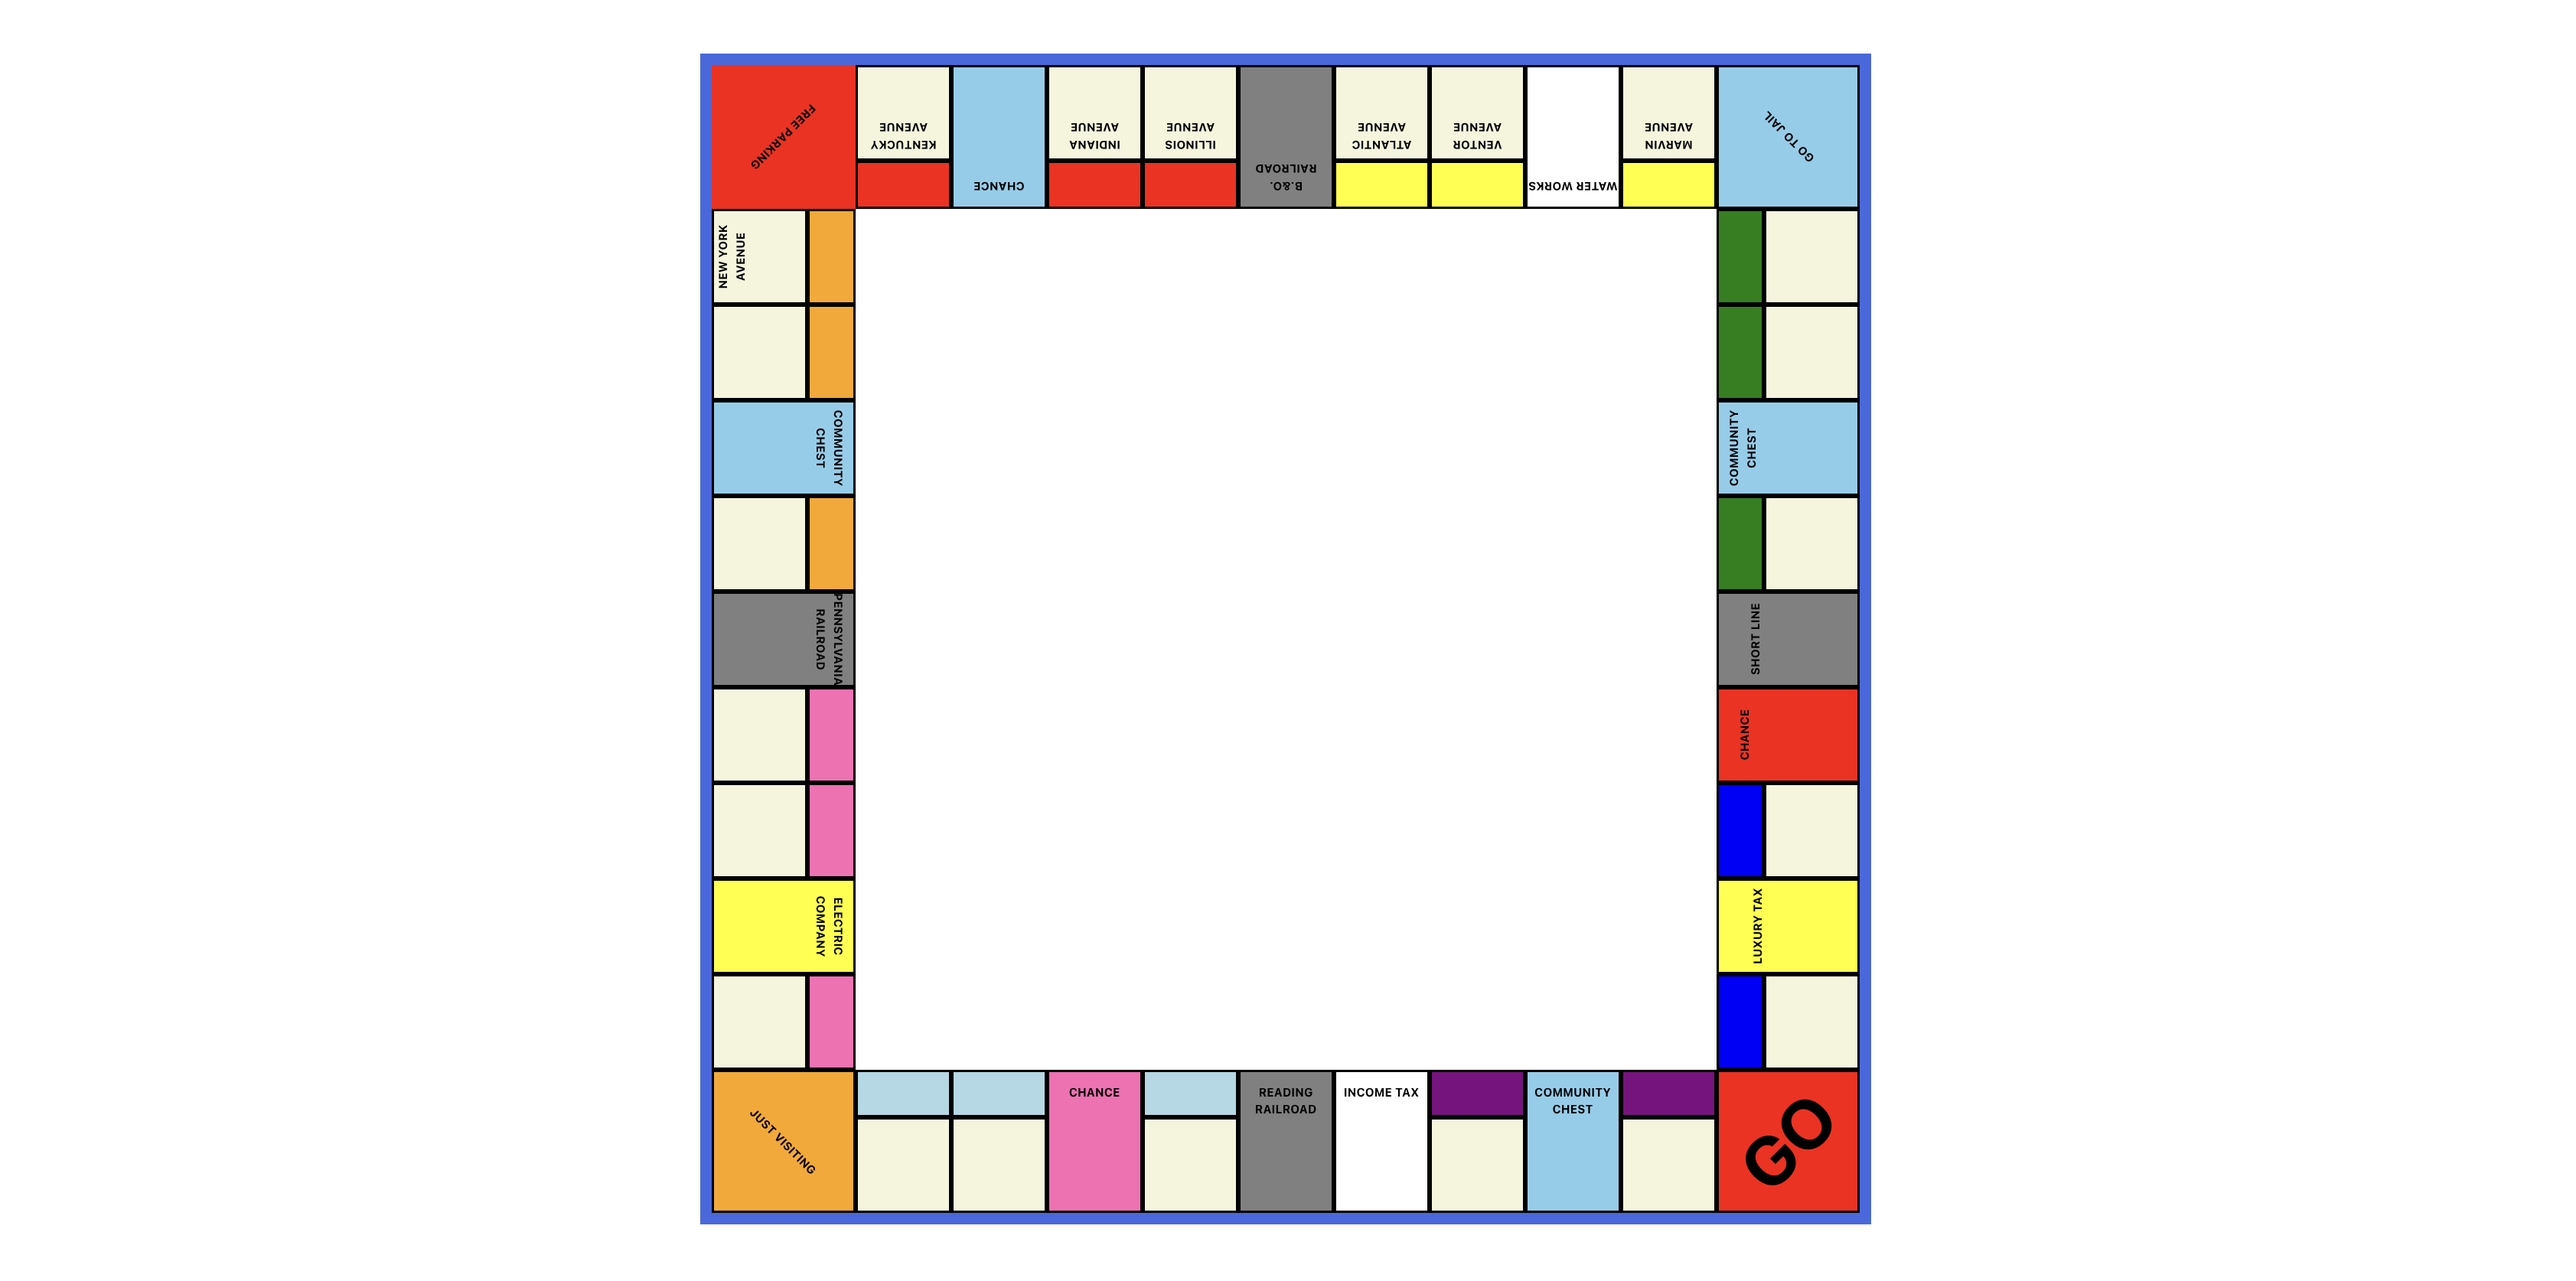
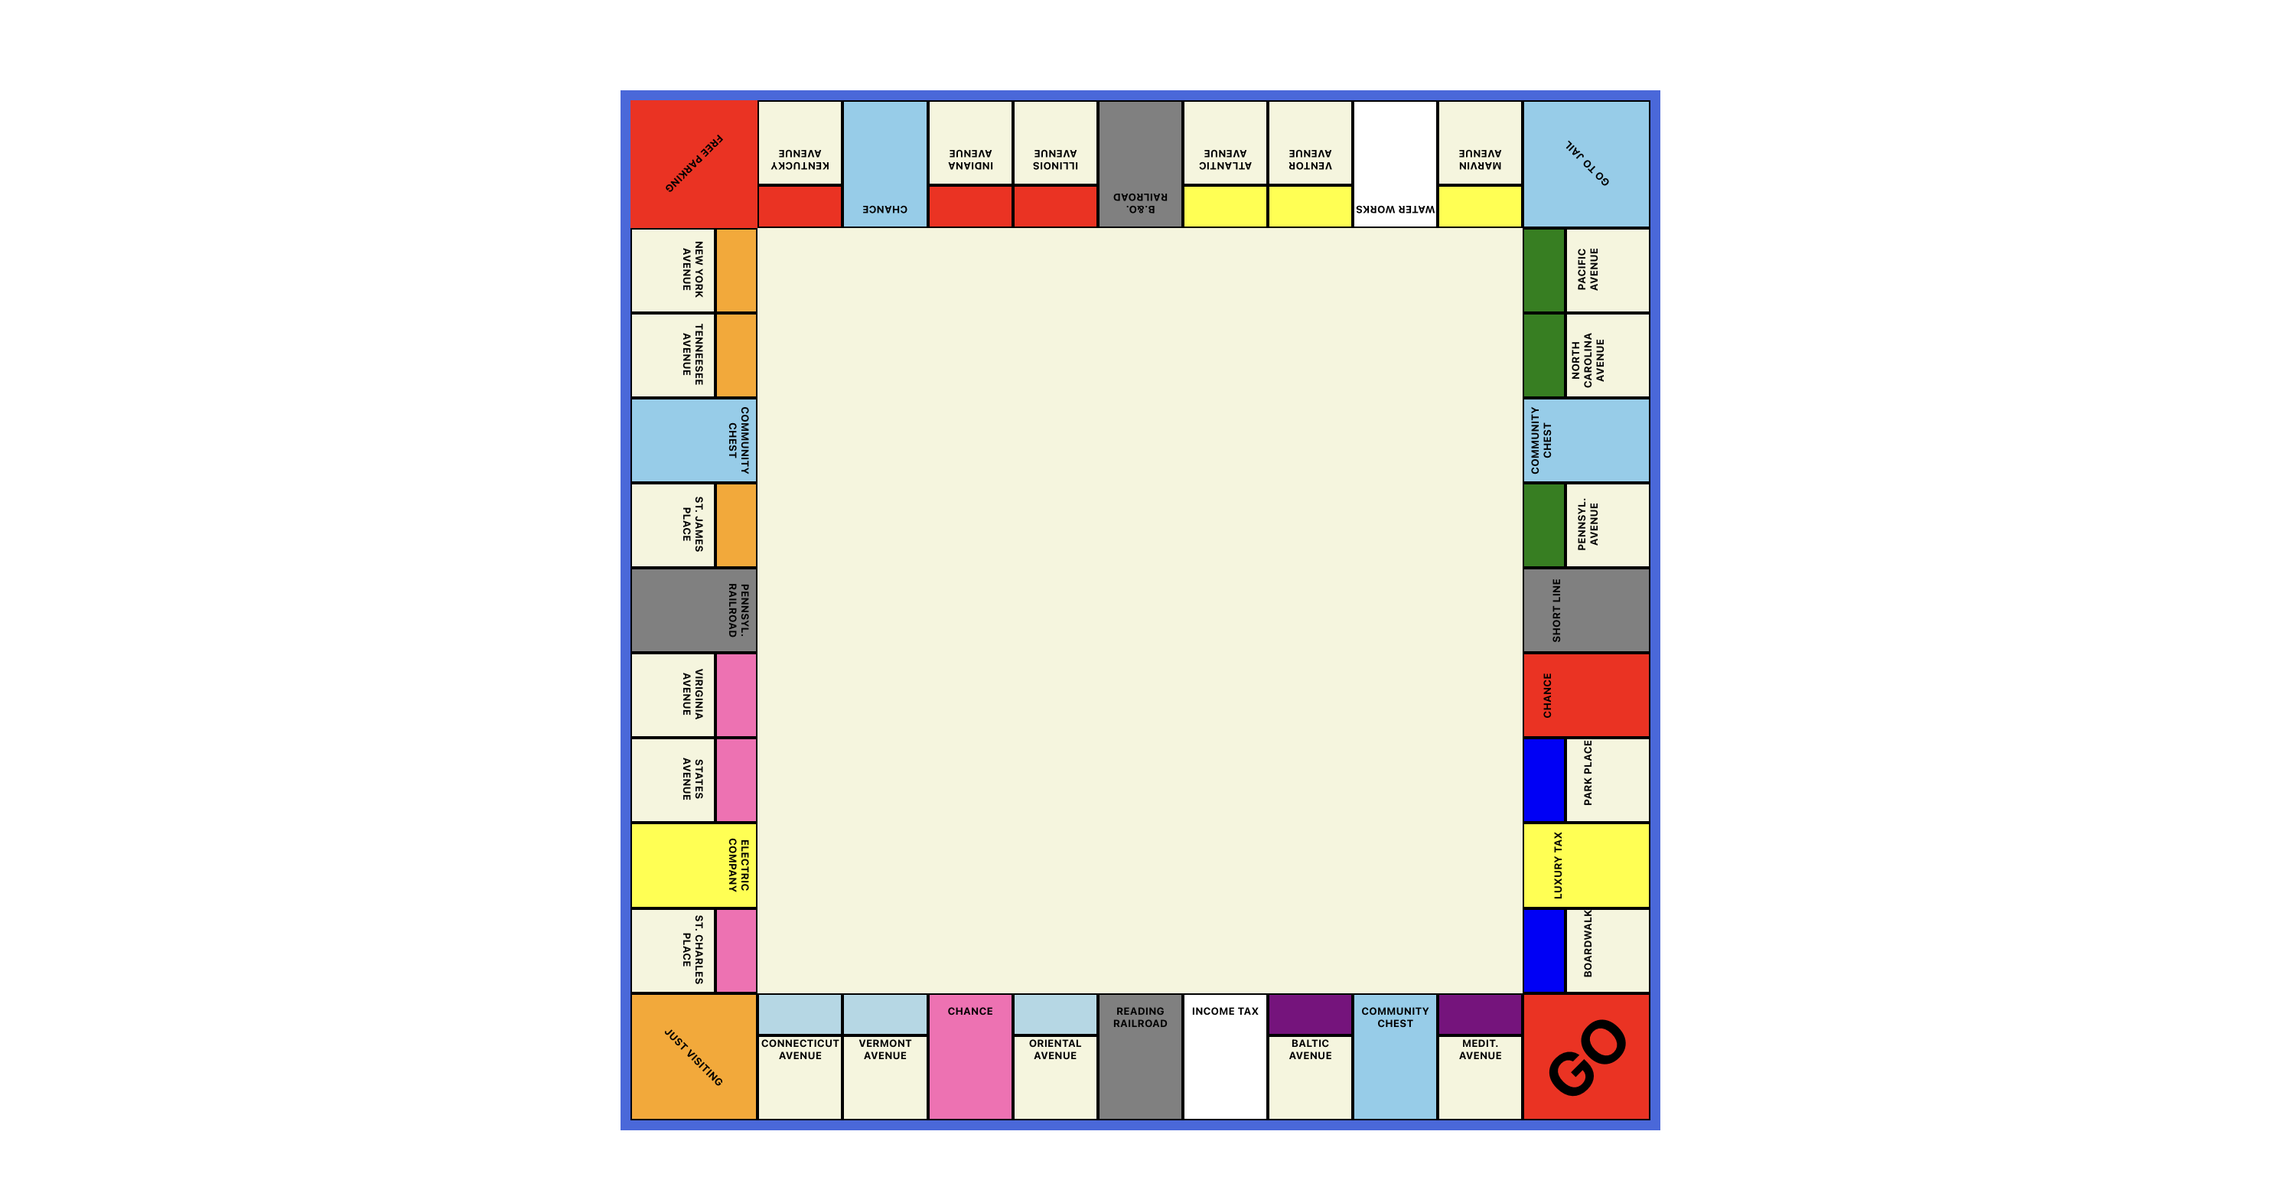
Edited Monopoly

diff --git a/src/pages/Monopoly.jsx b/src/pages/Monopoly.jsx
@@ -76,15 +76,15 @@ function Monopoly() {
     </div>
   </div>
   <div className="property-header property-orange"></div>
-  <div></div>
-  <div></div>
-  <div></div>
-  <div></div>
-  <div></div>
-  <div></div>
-  <div></div>
-  <div></div>
-  <div></div>
+  <div className="board-center"></div>
+  <div className="board-center"></div>
+  <div className="board-center"></div>
+  <div className="board-center"></div>
+  <div className="board-center"></div>
+  <div className="board-center"></div>
+  <div className="board-center"></div>
+  <div className="board-center"></div>
+  <div className="board-center"></div>
   <div className="property-header property-green"></div>
   <div className="property-body">
     <div className="rotate-right">
@@ -101,15 +101,15 @@ function Monopoly() {
     </div>
   </div>
   <div className="property-header property-orange"></div>
-  <div></div>
-  <div></div>
-  <div></div>
-  <div></div>
-  <div></div>
-  <div></div>
-  <div></div>
-  <div></div>
-  <div></div>
+  <div className="board-center"></div>
+  <div className="board-center"></div>
+  <div className="board-center"></div>
+  <div className="board-center"></div>
+  <div className="board-center"></div>
+  <div className="board-center"></div>
+  <div className="board-center"></div>
+  <div className="board-center"></div>
+  <div className="board-center"></div>
   <div className="property-header property-green"></div>
   <div className="property-body">
     <div className="rotate-right">
@@ -122,15 +122,15 @@ function Monopoly() {
         Community Chest
       </div>
   </div>
-  <div></div>
-  <div></div>
-  <div></div>
-  <div></div>
-  <div></div>
-  <div></div>
-  <div></div>
-  <div></div>
-  <div></div>
+  <div className="board-center"></div>
+  <div className="board-center"></div>
+  <div className="board-center"></div>
+  <div className="board-center"></div>
+  <div className="board-center"></div>
+  <div className="board-center"></div>
+  <div className="board-center"></div>
+  <div className="board-center"></div>
+  <div className="board-center"></div>
   <div className="property-cc-right">
     <div className="rotate-right-full">
       Community Chest
@@ -142,15 +142,15 @@ function Monopoly() {
     </div>
   </div>
   <div className="property-header property-orange"></div>
-  <div></div>
-  <div></div>
-  <div></div>
-  <div></div>
-  <div></div>
-  <div></div>
-  <div></div>
-  <div></div>
-  <div></div>
+  <div className="board-center"></div>
+  <div className="board-center"></div>
+  <div className="board-center"></div>
+  <div className="board-center"></div>
+  <div className="board-center"></div>
+  <div className="board-center"></div>
+  <div className="board-center"></div>
+  <div className="board-center"></div>
+  <div className="board-center"></div>
   <div className="property-header property-green"></div>
   <div className="property-body">
     <div className="rotate-right">
@@ -163,15 +163,15 @@ function Monopoly() {
     Pennsyl. Railroad
     </div>
   </div>
-  <div></div>
-  <div></div>
-  <div></div>
-  <div></div>
-  <div></div>
-  <div></div>
-  <div></div>
-  <div></div>
-  <div></div>
+  <div className="board-center"></div>
+  <div className="board-center"></div>
+  <div className="board-center"></div>
+  <div className="board-center"></div>
+  <div className="board-center"></div>
+  <div className="board-center"></div>
+  <div className="board-center"></div>
+  <div className="board-center"></div>
+  <div className="board-center"></div>
   <div className="property-short-line">
     <div className="rotate-right-full">
       Short Line
@@ -184,15 +184,15 @@ function Monopoly() {
     </div>
   </div>
   <div className="property-header property-hotpink"></div>
-  <div></div>
-  <div></div>
-  <div></div>
-  <div></div>
-  <div></div>
-  <div></div>
-  <div></div>
-  <div></div>
-  <div></div>
+  <div className="board-center"></div>
+  <div className="board-center"></div>
+  <div className="board-center"></div>
+  <div className="board-center"></div>
+  <div className="board-center"></div>
+  <div className="board-center"></div>
+  <div className="board-center"></div>
+  <div className="board-center"></div>
+  <div className="board-center"></div>
   <div className="property-chance-right">
   <div className="rotate-right-full">
       Chance
@@ -205,15 +205,15 @@ function Monopoly() {
     </div>
   </div>
   <div className="property-header property-hotpink"></div>
-  <div></div>
-  <div></div>
-  <div></div>
-  <div></div>
-  <div></div>
-  <div></div>
-  <div></div>
-  <div></div>
-  <div></div>
+  <div className="board-center"></div>
+  <div className="board-center"></div>
+  <div className="board-center"></div>
+  <div className="board-center"></div>
+  <div className="board-center"></div>
+  <div className="board-center"></div>
+  <div className="board-center"></div>
+  <div className="board-center"></div>
+  <div className="board-center"></div>
   <div className="property-header property-blue"></div>
   <div className="property-body">
     <div className="rotate-right">
@@ -226,15 +226,15 @@ function Monopoly() {
       Electric Company
     </div>
   </div>
-  <div></div>
-  <div></div>
-  <div></div>
-  <div></div>
-  <div></div>
-  <div></div>
-  <div></div>
-  <div></div>
-  <div></div>
+  <div className="board-center"></div>
+  <div className="board-center"></div>
+  <div className="board-center"></div>
+  <div className="board-center"></div>
+  <div className="board-center"></div>
+  <div className="board-center"></div>
+  <div className="board-center"></div>
+  <div className="board-center"></div>
+  <div className="board-center"></div>
   <div className="property-luxury-tax">
   <div className="rotate-right-full">
       Luxury Tax
@@ -247,15 +247,15 @@ function Monopoly() {
     </div>
   </div>
   <div className="property-header property-hotpink"></div>
-  <div></div>
-  <div></div>
-  <div></div>
-  <div></div>
-  <div></div>
-  <div></div>
-  <div></div>
-  <div></div>
-  <div></div>
+  <div className="board-center"></div>
+  <div className="board-center"></div>
+  <div className="board-center"></div>
+  <div className="board-center"></div>
+  <div className="board-center"></div>
+  <div className="board-center"></div>
+  <div className="board-center"></div>
+  <div className="board-center"></div>
+  <div className="board-center"></div>
   <div className="property-header property-blue"></div>
   <div className="property-body">
     <div className="rotate-right">

diff --git a/src/assets/monopoly.css b/src/assets/monopoly.css
@@ -6,7 +6,6 @@
   min-width: 320px;
   min-height: 100vh;
   color: black;
-  text-wrap: wrap;
   font-size: 10px;
   font-weight: bold;
   max-width: 1280px;
@@ -22,6 +21,10 @@
     grid-template: 2fr 1fr repeat(9, 2fr) 1fr 2fr / 2fr 1fr repeat(9, 2fr) 1fr 2fr;
     border: solid royalblue 10px;
     text-transform: uppercase;
+  }
+
+  .board-center {
+    background-color: beige;
   }
   
   .property-text-top {

diff --git a/src/pages/Projects.jsx b/src/pages/Projects.jsx
@@ -30,7 +30,10 @@ export default function Projects() {
 
             <div className="outside-projects">
                 <div className="projects-header">Projects</div>
-                <Project projects={projects}/>
+                <div className="grid-projects">
+                    <Project projects={projects}/>
+
+                </div>
             </div>
 
     );

diff --git a/src/App.css b/src/App.css
@@ -22,6 +22,10 @@ body {
     background-color: #2F7FB1;
   
   }
+
+  .grid-projects {
+
+  }
   
   
   .homepage-header {
